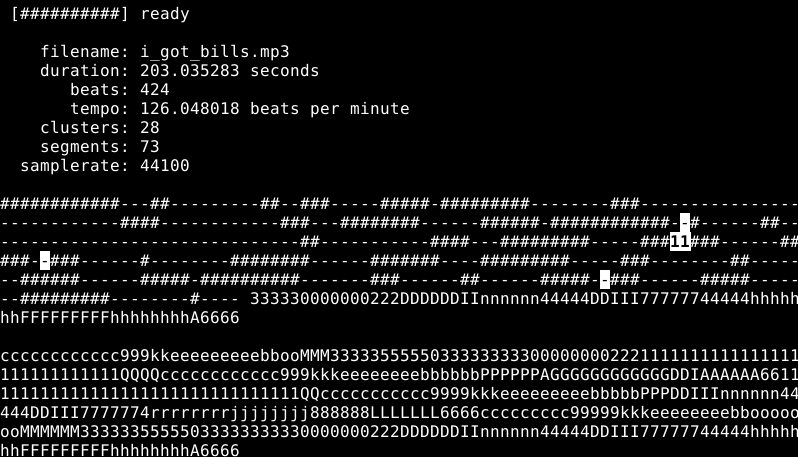
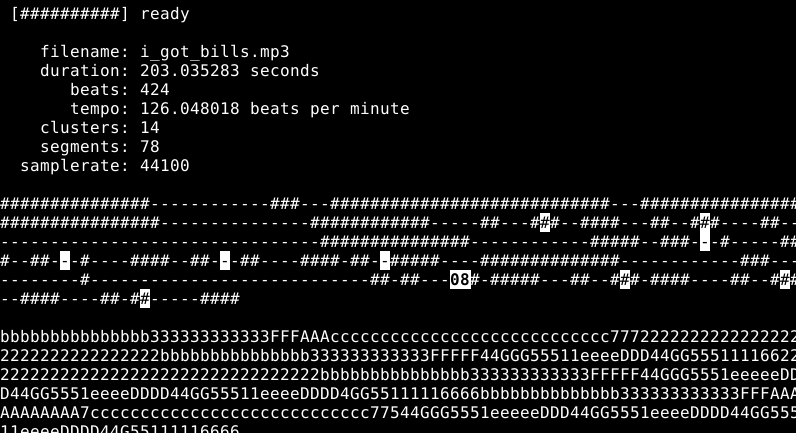
doc fixups

Changed region(s): [[0.0, 0.0901, 1.0, 0.7206], [0.0, 0.7506, 1.0, 1.0], [0.0302, 0.0, 0.2412, 0.06]]

diff --git a/infinite_jukebox.py b/infinite_jukebox.py
@@ -149,7 +149,7 @@ def get_verbose_info():
         cluster_map += cluster_chars[ b['cluster'] ] 
     
     if args.verbose:
-        verbose_info += "\n\n" + cluster_map + "\n\n" + cluster_map
+        verbose_info += "\n" + segment_map + "\n\n" + cluster_map
     
     return verbose_info
 
